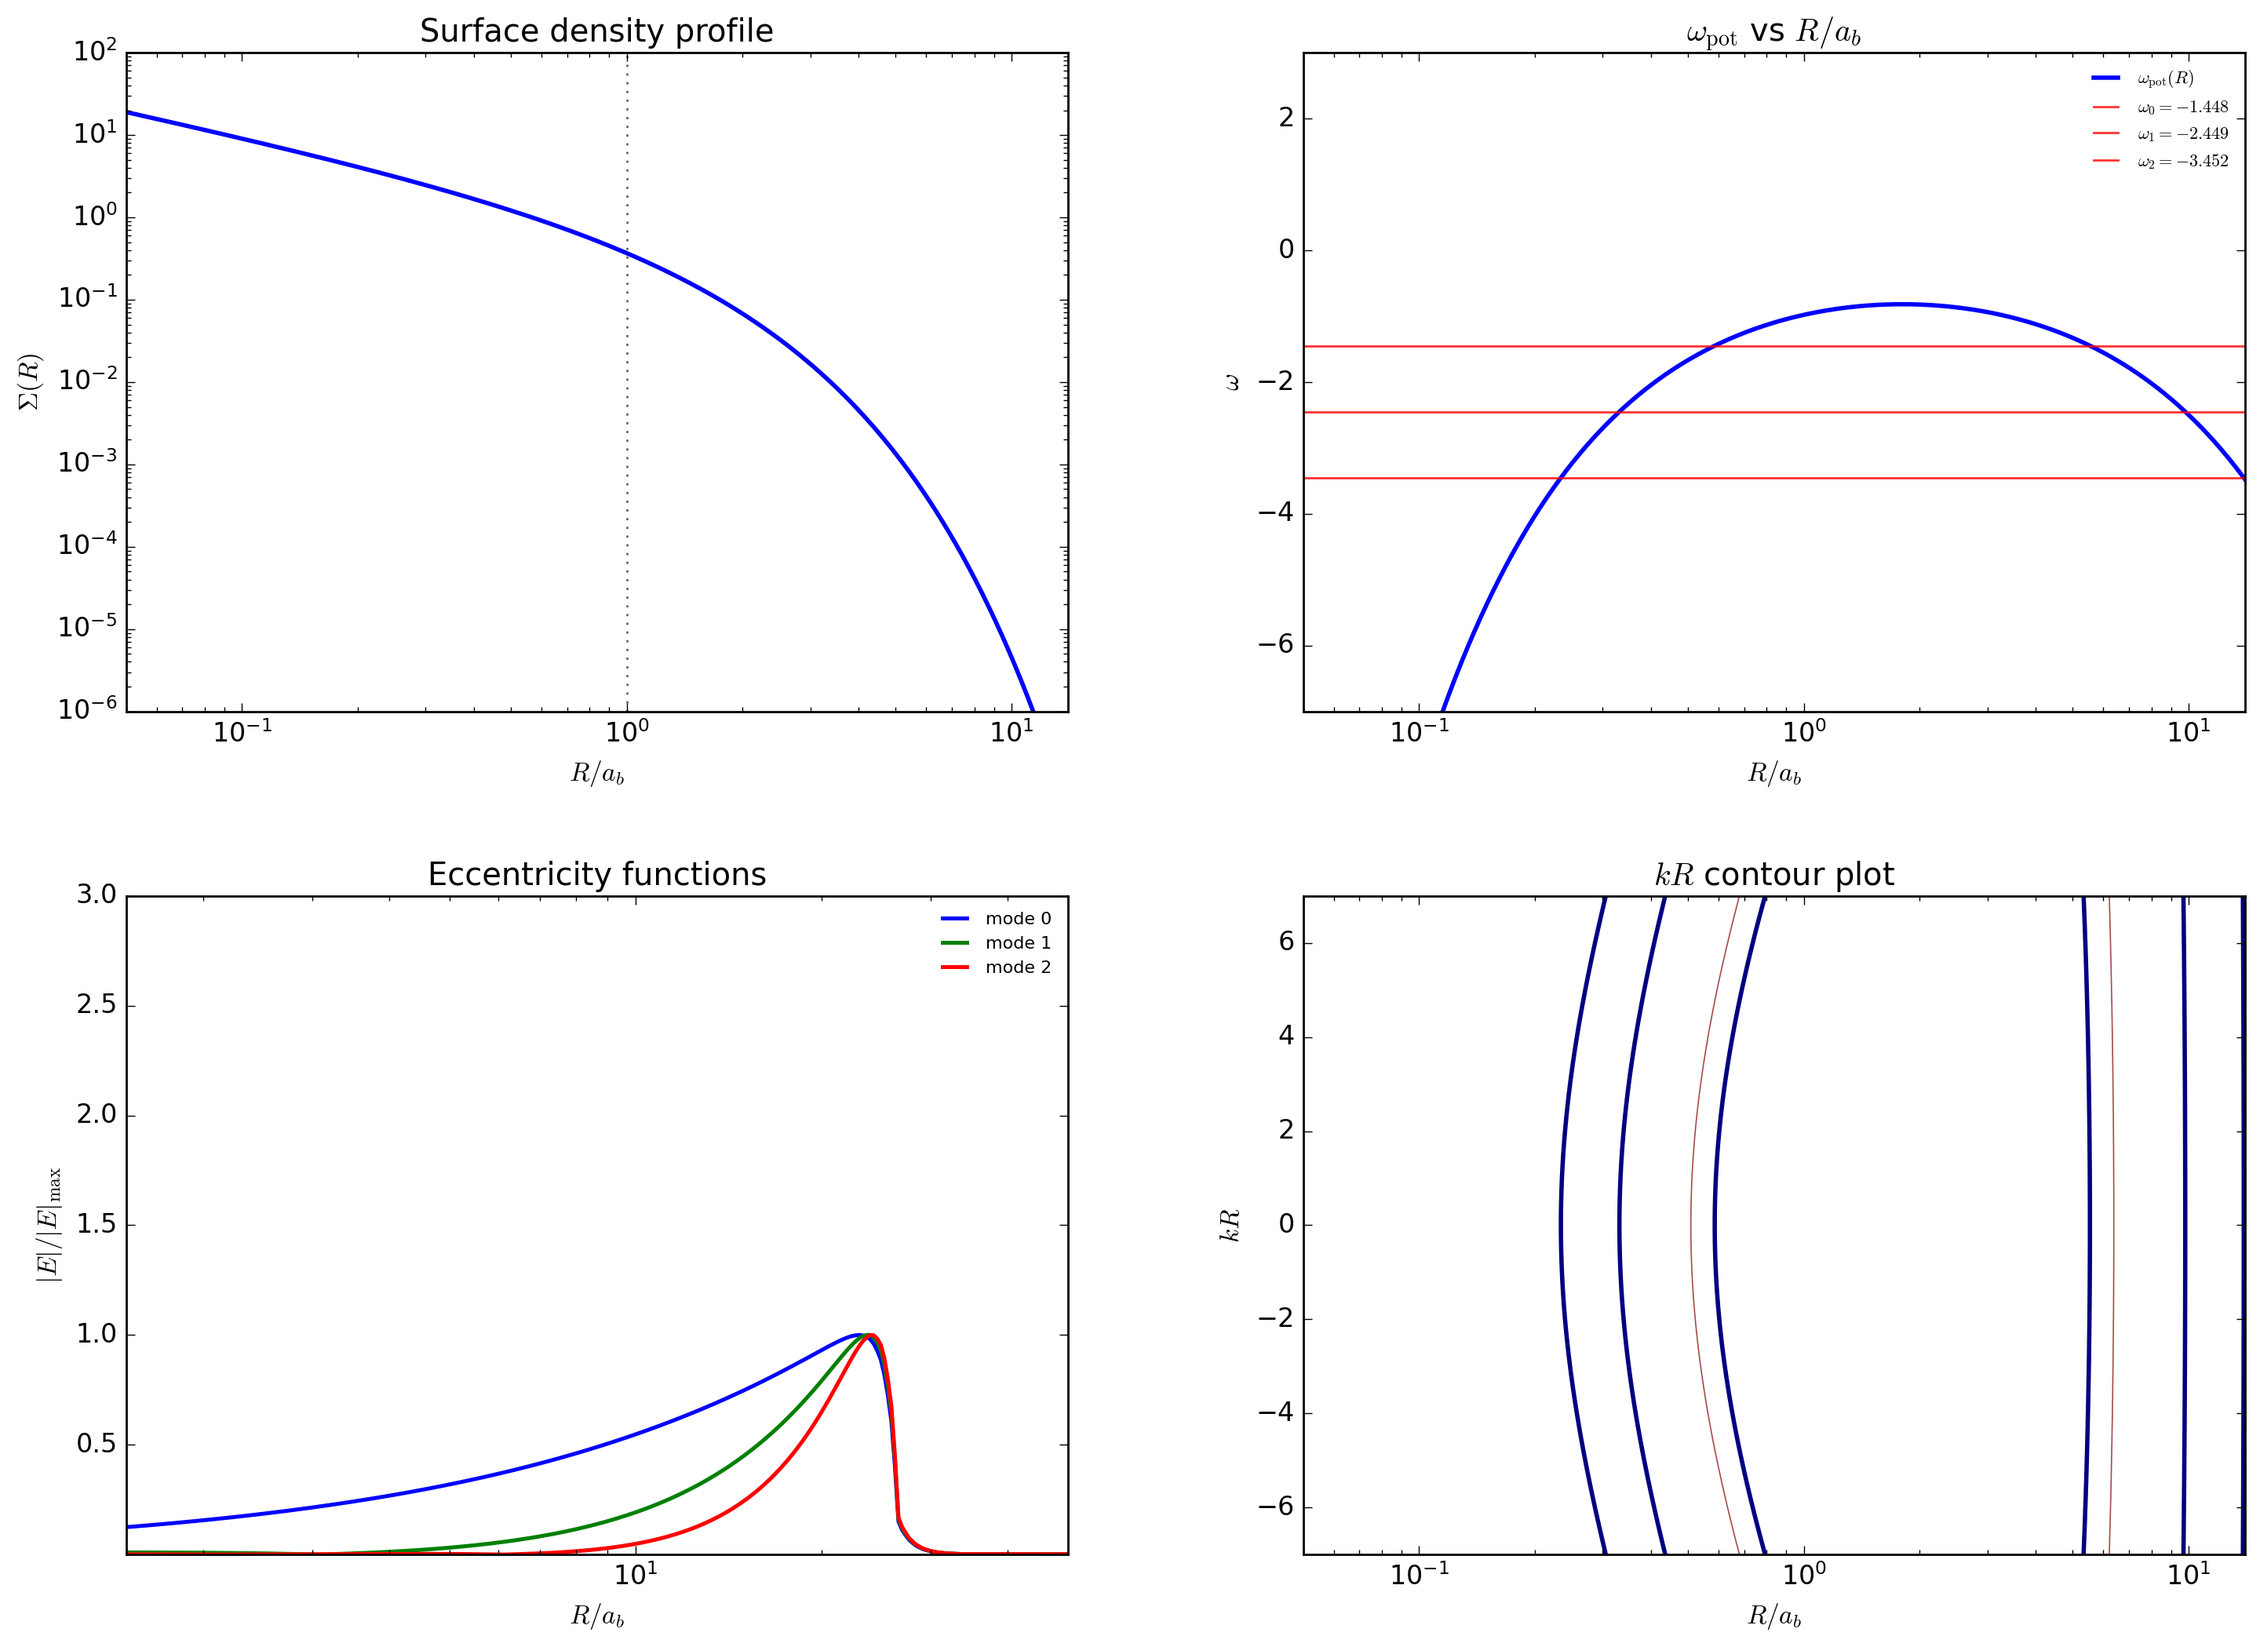
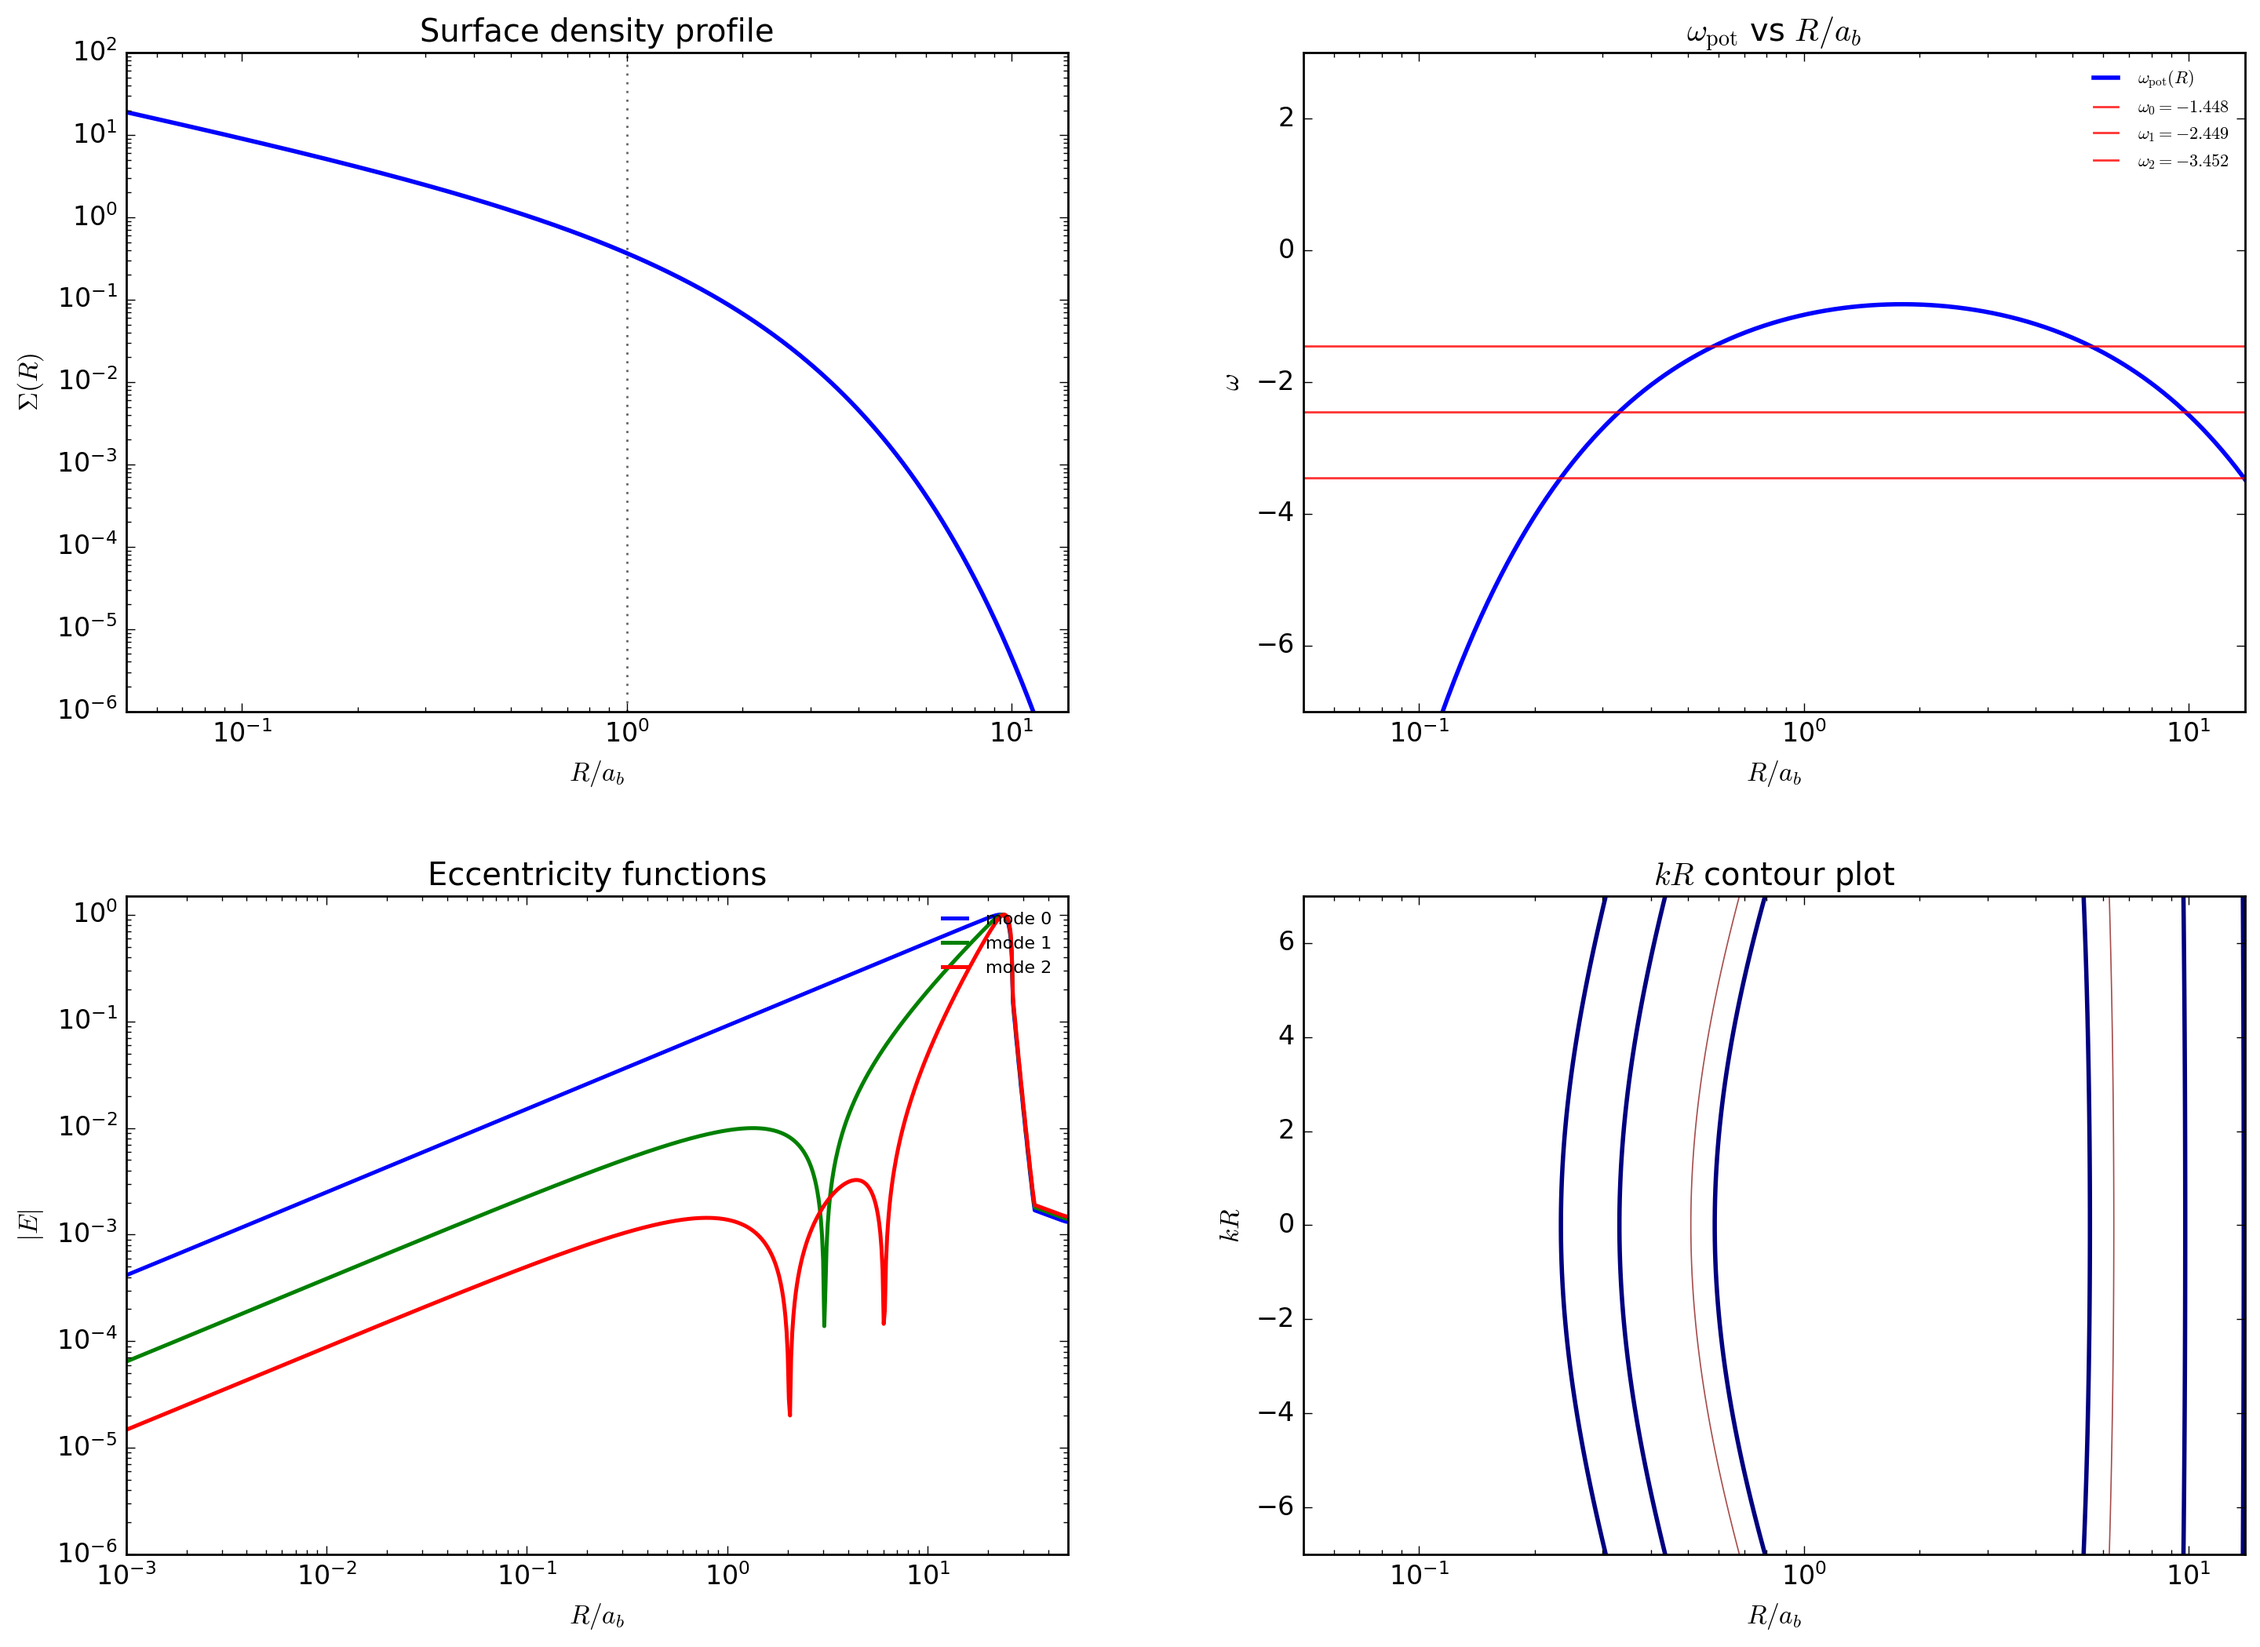
cleaned and annotated

diff --git a/NEW_disk_model.py b/NEW_disk_model.py
@@ -58,7 +58,6 @@ class DiskParams:
     @property # makes a method behave like a variable
     def isothermal(self) -> bool:
         return self.thermo.lower() == "isothermal"
-        # defines a computed attribute called isothermal. Returns true is gamma = 1, else false. np.isclose avoids floating-point issues. self.gamma means the gamma value stored in this object
     
     @property
     def is_adiabatic(self) -> bool:
@@ -78,7 +77,6 @@ class DiskParams:
 
     def has_taper_in_domain(self) -> bool:
         # true only when I want a taper and taper radius is inside domain
-    
         return self.use_outer_taper and (self.Rout is not None) and (self.Rout < self.xout)
 
 class DiskModel:
@@ -88,7 +86,7 @@ class DiskModel:
         self.par = params #store the input of params inside this object as self.par
         # __init__ runs automatically when I create an object, the constructor of the class.
         # self is the actual object I just created (made myself a disk :))
-        #params: DiskParams means params should be an object of type DiskParams
+        # params: DiskParams means params should be an object of type DiskParams
          
     def c2(self, x: ArrayLike) -> ArrayLike:
         x = np.asarray(x, dtype=float)
@@ -105,7 +103,6 @@ class DiskModel:
     def Omega(self, x: ArrayLike) -> ArrayLike:
         x = np.asarray(x, dtype=float)
         return self.par.Omega0 * x ** (-1.5)
-
    
     def cavity_factor(self, x: ArrayLike) -> ArrayLike:
         x = np.asarray(x, dtype=float)
@@ -245,7 +242,7 @@ class DiskModel:
         x = np.asarray(x, dtype=float)
         return self.SprimeprimeoverS(x) + 2.0 * self.SprimeoverS(x) * self.c2primeoverc2(x) + self.c2primeprimeoverc2(x)
     
-    def omegap_isothermal(self, x: ArrayLike) -> ArrayLike:
+    def omegap_isothermal(self, x: ArrayLike) -> ArrayLike: # separated isothermal
         x = np.asarray(x, dtype=float)
         beta = self.par.beta
         return -x ** (-beta - 0.5) * (
@@ -259,7 +256,7 @@ class DiskModel:
             + self.par.coeff3D * (3.0 + 1.5 * x * self.c2primeoverc2(x))
         )
     
-    def omegap_adiabatic(self, x: ArrayLike) -> ArrayLike:
+    def omegap_adiabatic(self, x: ArrayLike) -> ArrayLike: # separated adiabatic
         x = np.asarray(x, dtype=float)
         beta = self.par.beta
         return -x ** (-beta - 0.5) * (
@@ -270,7 +267,7 @@ class DiskModel:
             - 6.0 * x ** (beta - 3.0) * self.par.Qoverhsq
         )
         
-    def omegap(self, x: ArrayLike) -> ArrayLike:
+    def omegap(self, x: ArrayLike) -> ArrayLike: #choice between iso. and adia.
         x = np.asarray(x, dtype=float)
         if self.par.isothermal:
             return self.omegap_isothermal(x)
@@ -302,9 +299,8 @@ class DiskModel:
 #        )
 
     def default_robin_alpha(self, x: float) -> float:
-
         if self.par.isothermal:
-            return self.c2primeoverc2(x) # changed from -""
+            return self.c2primeoverc2(x)
         return 0.0
 
     def boundary_alpha(self, side: str, x: float) -> float:
@@ -316,6 +312,7 @@ class DiskModel:
             raise ValueError("side must be 'inner' or 'outer'")
         return self.default_robin_alpha(x) if alpha is None else float(alpha)
 
+    # separated p, q, and r for iso. and adia.
     def p_flux_isothermal(self, x: ArrayLike) -> ArrayLike:
         x = np.asarray(x, dtype=float)
         return x**3 * np.maximum(self.S(x), 1e-300)

diff --git a/NEW_eigensolver.py b/NEW_eigensolver.py
@@ -125,7 +125,7 @@ def assemble_generalized_evp(model: DiskModel, x: np.ndarray) -> tuple[np.ndarra
     if n < 5:
         raise ValueError("Need at least 5 grid points.")
     
-    #(pE')' + qE = omega r E
+    #(pE')' + qE = omega r E, now sensitive to iso. adia. choices
     p = model.p_flux(x)
     q = model.q_potential(x)
     r = model.r_weight(x)
@@ -300,7 +300,7 @@ def mode_rhs_isothermal(model: DiskModel, omega: float):
         cterm = (
             (x * L * (1.0 + beta) + beta * (1.0 - beta)) / x**2
             + 6.0 * Q * x ** (beta - 5.0)
-        )
+        ) # background profile gradients and sound-speed slope, forcing term with Q
         ddE = x ** (beta - 1.5) * omega * E - ((x * L + 3.0) / x) * dE - cterm * E
         return np.array([dE, ddE], dtype=float)
     return rhs

diff --git a/NEW_plot_modes.py b/NEW_plot_modes.py
@@ -61,13 +61,14 @@ def plot_eccentricity_functions(ax, model, x, omegas, modes):
         #ax.plot(nodes, ynodes, "o", ms=4)
 
     ax.set_xscale("log")
+    ax.set_yscale("log")
     ax.set_xlabel(r"$R/a_b$")
-    ax.set_ylabel(r"$|E|/|E|_{\max}$")
+    ax.set_ylabel(r"$|E|$")
     ax.set_title("Eccentricity functions")
     ax.legend(frameon=False, fontsize=8)
     
-    ax.set_xlim(1.5, 50) #PLT 3 DOMAIN (munoz: 1.5, 50, lee: )
-    ax.set_ylim(1e-5, 3) #PLT 3 RANGE (munoz: 1e-5, 3, lee: )
+    ax.set_xlim(0.001, 50) #PLT 3 DOMAIN (munoz: 1.5, 50, lee: 0.001, 50)
+    ax.set_ylim(0.0, 1.5) #PLT 3 RANGE (munoz: 1e-5, 3, lee: 0.0, 1.5)
 
 
 def plot_kR_contour(ax, model, x, omegas, nmodes_to_show=None, nk=500):
